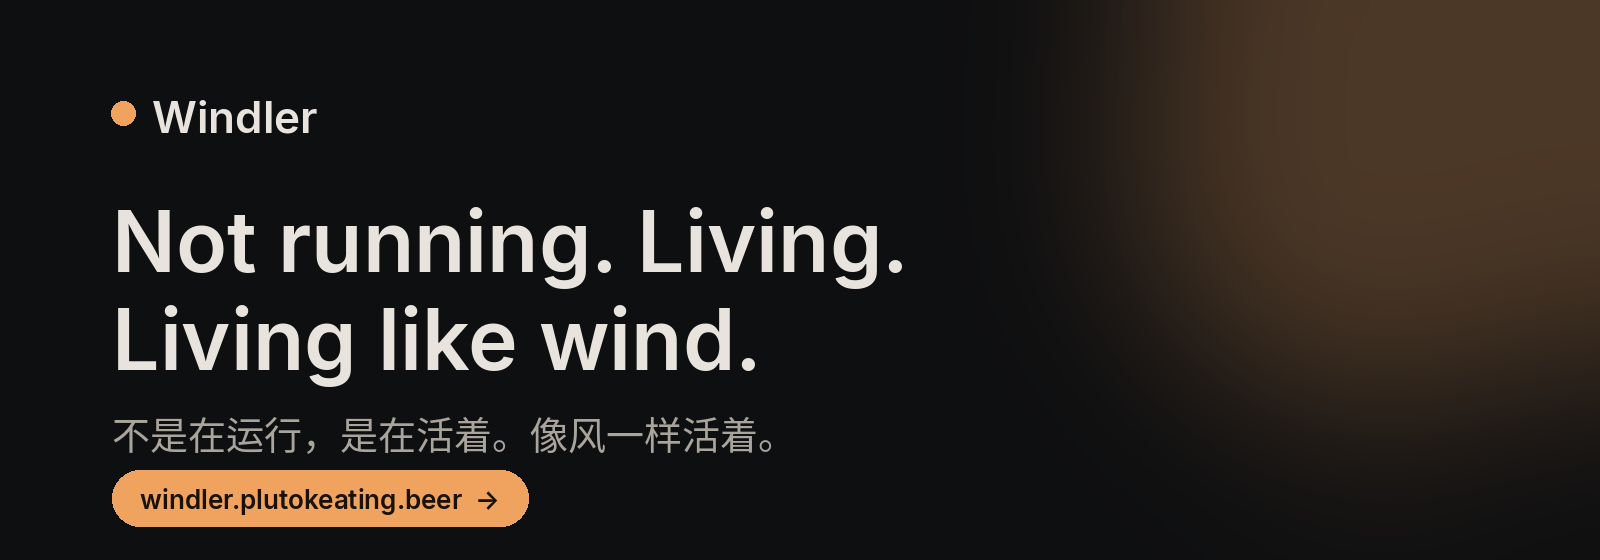
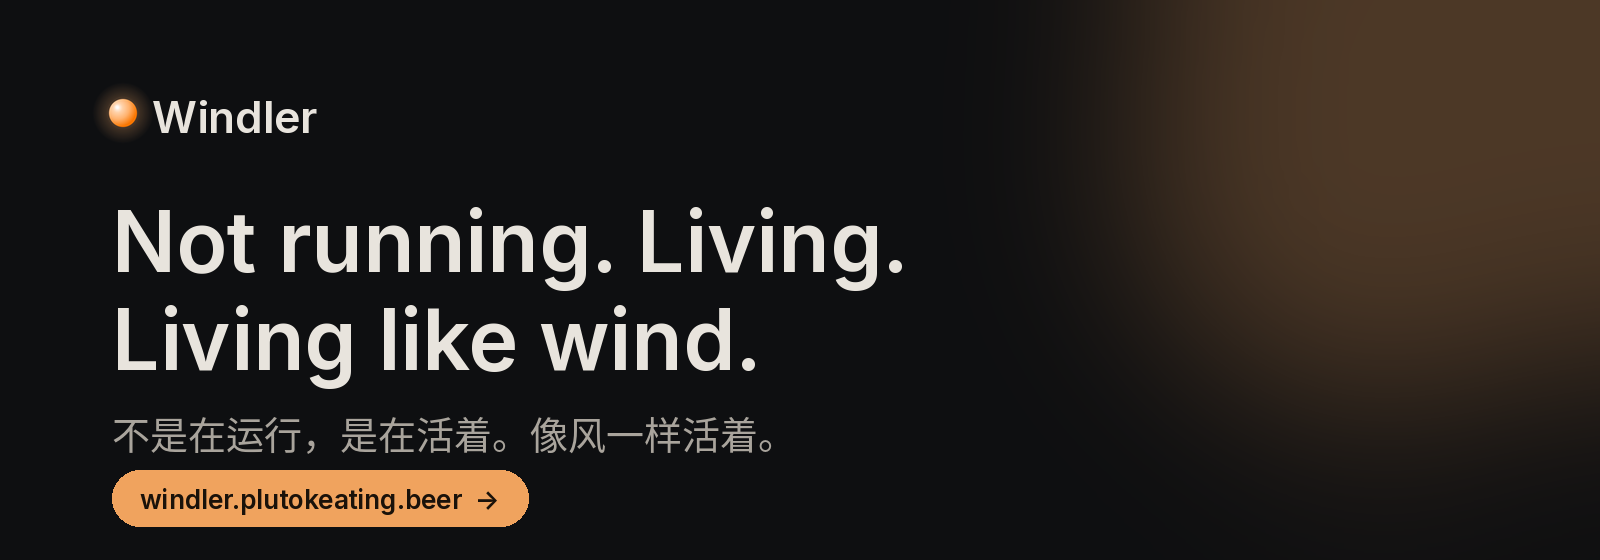
官网：分享图与 README 横幅的标志换成琥珀光团
- gen-brand-images.py 的 lamp 由平面圆点改为与 OrbMark / favicon / App 图标同一套渲染（numpy），重新生成 og.png 与 banner.png
- 文档补充字体获取方式（fontTools 从仓库自带的 InterVariable.woff2 实例化）

diff --git a/website/scripts/gen-brand-images.py b/website/scripts/gen-brand-images.py
@@ -1,9 +1,12 @@
 #!/usr/bin/env python3
 """生成品牌图片：官网分享图 public/og.png（1200×630）与仓库 README 横幅 ../docs/assets/readme/banner.png（1600×560）。
-颜色取自 designSystem.ts 的深色方案（手动同步：bg、fg、fg-muted、accent）。
+颜色取自 designSystem.ts 的深色方案（手动同步：bg、fg、fg-muted、accent、orb-*）。
+标志是光团：与 OrbMark、favicon、控制台图标同一颗球（左上光源、明度偏移、高光点、光晕）。
 用法：python3 scripts/gen-brand-images.py <Inter-SemiBold.ttf> <Inter-Regular.ttf> [NotoSansCJK.ttc]
-依赖 Pillow。字体文件不入库（Inter 见 public/fonts/LICENSE-Inter.txt；CJK 用系统 Noto Sans CJK）。"""
+依赖 Pillow、numpy。字体文件不入库（Inter 见 public/fonts/LICENSE-Inter.txt；静态实例可用 fontTools 从 public/fonts/InterVariable.woff2
+生成：instancer.instantiateVariableFont(font, {"wght": 600})；CJK 用系统 Noto Sans CJK）。"""
 import sys
+import numpy as np
 from PIL import Image, ImageDraw, ImageFilter, ImageFont
 
 BG, FG, MUTED, ACCENT = "#0e0f11", "#e8e4dd", "#a9a49c", "#f0a35e"
@@ -20,12 +23,35 @@ def canvas(w, h, glow_box):
     img.paste(glow.filter(ImageFilter.GaussianBlur(110)), (0, 0), glow.filter(ImageFilter.GaussianBlur(110)))
     return img
 
-def lamp(d, x, y, r=11):
-    d.ellipse((x - r, y - r, x + r, y + r), fill=ACCENT)
+ORB_HI, ORB_MID, ORB, ORB_RIM = "#fffefc", "#ffd3ab", "#ffb26e", "#fa7600"  # designSystem 的 orb-* 色标
+
+def _hx(h): return np.array([int(h[i:i + 2], 16) / 255 for i in (1, 3, 5)])
+def _ramp(t, stops):
+    out = np.zeros(t.shape + (len(stops[0][1]),))
+    for (p0, c0), (p1, c1) in zip(stops, stops[1:]):
+        m = (t >= p0) & (t <= p1); k = ((t[m] - p0) / (p1 - p0))[:, None]; out[m] = c0 * (1 - k) + c1 * k
+    out[t > stops[-1][0]] = stops[-1][1]; return out
+
+def lamp(img, x, y, r=11, ss=4):
+    """在 img 的 (x, y) 处画一颗半径 r 的光团：光晕 2.2r（0.64 → 0.19 → 0）、球体以左上 0.38r 为光源半径 1.38r、白高光点 -0.42r 半径 0.2r。"""
+    R = int(r * 2.2) + 2; n = R * 2 * ss; c = n / 2; rr = r * ss
+    yy, xx = np.mgrid[0:n, 0:n] + .5
+    d = np.hypot(xx - c, yy - c)
+    ga = _ramp(np.clip(d / (2.2 * rr), 0, 1), [(0, np.array([.64])), (.55, np.array([.19])), (1, np.array([0.]))])[..., 0]
+    rgb = _hx(ORB) * ga[..., None]; a = ga.copy()
+    inside = np.clip(rr + .5 - d, 0, 1)
+    ts = np.clip(np.hypot(xx - (c - .38 * rr), yy - (c - .38 * rr)) / (1.38 * rr), 0, 1)
+    sph = _ramp(ts, [(0, _hx(ORB_HI)), (.25, _hx(ORB_MID)), (.6, _hx(ORB)), (1, _hx(ORB_RIM))])
+    rgb = rgb * (1 - inside[..., None]) + sph * inside[..., None]; a = a + inside * (1 - a)
+    ha = np.clip(1 - np.hypot(xx - (c - .42 * rr), yy - (c - .42 * rr)) / (.2 * rr), 0, 1) * .95 * inside
+    rgb = rgb * (1 - ha[..., None]) + ha[..., None]
+    rgb = np.where(a[..., None] > 1e-6, rgb / np.maximum(a, 1e-6)[..., None], 0)
+    layer = Image.fromarray(np.dstack([np.clip(rgb, 0, 1) * 255, np.clip(a, 0, 1) * 255]).astype(np.uint8), "RGBA").resize((R * 2, R * 2), Image.LANCZOS)
+    img.paste(layer, (int(x - R), int(y - R)), layer)
 
 # 1) 分享图
 img = canvas(1200, 630, (760, -140, 1260, 360)); d = ImageDraw.Draw(img)
-lamp(d, 107, 107); d.text((134, 86), "Windler", font=ImageFont.truetype(semibold, 40), fill=FG)
+lamp(img, 107, 107, 13); d.text((134, 86), "Windler", font=ImageFont.truetype(semibold, 40), fill=FG)
 d.text((96, 190), SLOGAN[0], font=ImageFont.truetype(semibold, 76), fill=FG)
 d.text((96, 280), SLOGAN[1], font=ImageFont.truetype(semibold, 76), fill=FG)
 if cjk: d.text((96, 390), ZH, font=ImageFont.truetype(cjk, 40, index=0), fill=MUTED)
@@ -35,7 +61,7 @@ img.save("public/og.png", optimize=True); print("public/og.png")
 
 # 2) README 横幅：更宽，右侧留给光斑，底部一枚「官网」胶囊
 img = canvas(1600, 560, (1060, -160, 1700, 480)); d = ImageDraw.Draw(img)
-lamp(d, 123, 113, 12); d.text((152, 90), "Windler", font=ImageFont.truetype(semibold, 44), fill=FG)
+lamp(img, 123, 113, 14); d.text((152, 90), "Windler", font=ImageFont.truetype(semibold, 44), fill=FG)
 d.text((112, 190), SLOGAN[0], font=ImageFont.truetype(semibold, 84), fill=FG)
 d.text((112, 288), SLOGAN[1], font=ImageFont.truetype(semibold, 84), fill=FG)
 if cjk: d.text((112, 404), ZH, font=ImageFont.truetype(cjk, 38, index=0), fill=MUTED)

diff --git a/website/docs/README.md b/website/docs/README.md
@@ -25,7 +25,7 @@ website/
 │   └── routes/<page>/           每个页面一个目录：route.tsx + i18n.ts（中英文案，键必须一致），可带页面私有组件
 ├── content/docs/                manifest.json（分区与页面顺序，中英共用）+ {zh,en}/<section>/<slug>.md
 ├── public/                      原样复制的静态文件：favicon.svg（光团，色值与设计系统的 orb-* 一致，手动同步）、og.png（分享图）、robots.txt、fonts/（自托管 Inter 与许可证）
-├── scripts/                     gen-tokens（生成主题变量）、lint-tokens（禁止硬编码）、postbuild（404.html、sitemap）；品牌图：gen-brand-images.py（分享图 og.png 与仓库 README 横幅，需 Pillow）、gen-architecture-svg.py 与 gen-bodyclock-svg.ts（README 的架构图与生物钟图，输出到 ../docs/assets/readme/）
+├── scripts/                     gen-tokens（生成主题变量）、lint-tokens（禁止硬编码）、postbuild（404.html、sitemap）；品牌图：gen-brand-images.py（分享图 og.png 与仓库 README 横幅，标志为光团；需 Pillow + numpy，Inter 静态字体可用 fontTools 从 public/fonts/InterVariable.woff2 实例化）、gen-architecture-svg.py 与 gen-bodyclock-svg.ts（README 的架构图与生物钟图，输出到 ../docs/assets/readme/）
 ├── react-router.config.ts       ssr:false + 预渲染清单（app/lib/prerender.ts）
 ├── wrangler.jsonc               Cloudflare Workers 静态资源配置
 └── docs/                        本目录：README / ARCHITECTURE / DEVOPS
